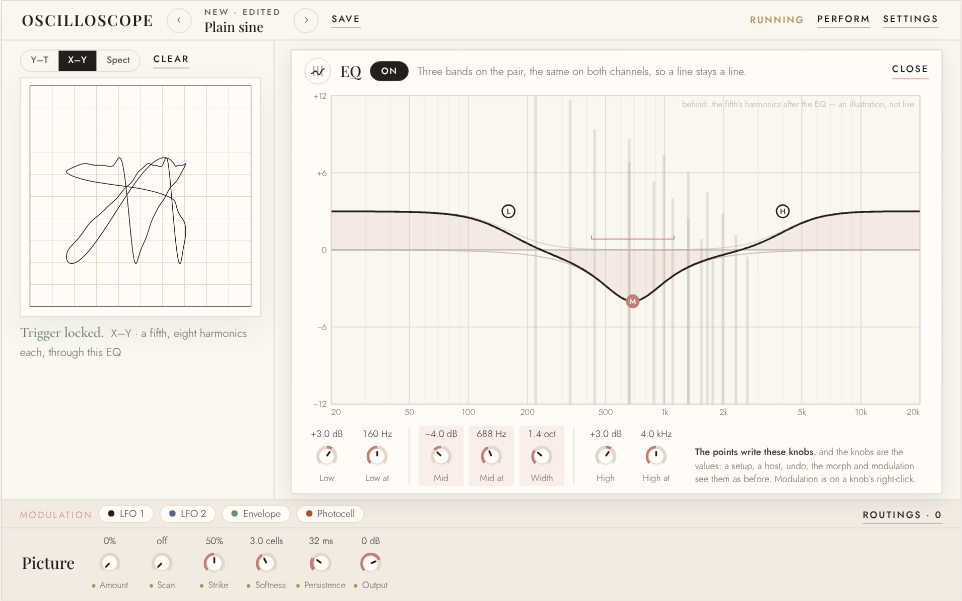
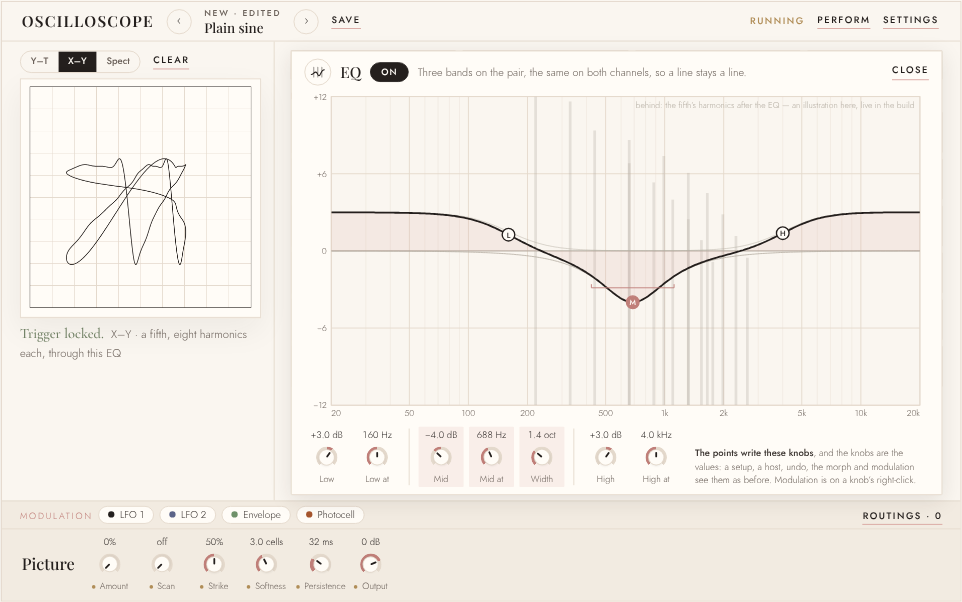
Put the EQ's points on its curve, and settle the mockup on the editor over the tabs
The owner's verdict on the EQ mockup (17 Nov). The points did not line
up with the line: each sat at its band's own full gain, which a shelf's
curve reaches only far past its corner, and a band overlapping another
put its point off the curve again. Each point now sits on the drawn
total curve, at its band's frequency and the height of the whole
response there, and the sum is drawn through each band's frequency so
the point is on a vertex rather than between two. Dragging still moves
the band's own gain from where it was, and the readout and the menu
still give the band's own gain. The line's small curve does the same.

checks/points_on_curve.py holds it: six settings, both windows, the
editor and the line, each point within half a pixel of the drawn path
at its x (0.20 px at worst, the path's own rounding). Its null is the
old placement, which misses on every shelf; the first null setting, a
shelf with an 8 dB mid under its corner, happened to put the old
placement on the curve, so the mid there is 4 dB. With the old
placement put back the check fails. The curve's check against the core
is beside it now too, as checks/curve_against_core.py.

The page defaults to A, over the tabs, and B's switch goes: B stays a
paragraph in the one alternative, marked not chosen. The spectrum is an
illustration here and live in the build, from the Spect view's
2048-point FFT, with its cost written down. The line's curve showing
[…]

diff --git a/web/docs/mockups/eq/index.html b/web/docs/mockups/eq/index.html
@@ -324,7 +324,7 @@ kbd { font-family: var(--mono); font-size: 0.8em; border: 1px solid var(--pg-lin
 </head>
 <body>
 <div class="page">
-  <p class="eyebrow">Mockup · Space &amp; Memory · 17 Nov</p>
+  <p class="eyebrow">Mockup · Space &amp; Memory · 17 Nov · the owner chose A</p>
   <h1>The EQ, drawn</h1>
   <p class="lede">Its response as the face of it: a small curve on the rack's line where the three gain knobs were, and a large one to drag, opened over the tabs with the screen still in view.</p>
   <p class="small">Everything here is live. The curve is worked out with the core's own formulas (the Audio EQ Cookbook, shelves at slope one, the mid's Q from its width by the analog relation, at 48 kHz), so what you drag is what the instrument would play. The screen's figure is a fifth, A3 against E4, through this EQ. Nothing in <code>scope.html</code> or the core has changed.</p>
@@ -334,11 +334,6 @@ kbd { font-family: var(--mono); font-size: 0.8em; border: 1px solid var(--pg-lin
       <div class="pg-switch" id="pgSize">
         <button type="button" data-v="big" aria-pressed="true">1400 × 900</button>
         <button type="button" data-v="small" aria-pressed="false">960 × 600 at 90%</button>
-      </div></div>
-    <div class="grp"><span class="lbl">Editor</span>
-      <div class="pg-switch" id="pgLayout">
-        <button type="button" data-v="over" aria-pressed="true">A · over the tabs</button>
-        <button type="button" data-v="rack" aria-pressed="false">B · in the rack</button>
       </div></div>
     <div class="grp"><span class="lbl">Hands</span>
       <div class="pg-switch" id="pgHands">
@@ -432,25 +427,28 @@ kbd { font-family: var(--mono); font-size: 0.8em; border: 1px solid var(--pg-lin
     <dt>On the line</dt>
     <dd>The curve, 150 by 34, in place of the three gain knobs, with the three points as dots. It is a button: pressing it opens the editor. It stays on the folded line too (96 by 22), because it is the line's reading rather than a control, and a folded EQ that showed nothing would say nothing. The words beside it (<i>low +3.0 dB at 160 Hz · …</i>) stay; they are what a screen reader and a narrow window keep.</dd>
     <dt>The editor</dt>
-    <dd>Over the tabs, where the modulation editor opens, so the screen stays in view while you listen and watch. A log-frequency grid from 20 Hz to 20 kHz, ±12 dB, the sum of the bands in charcoal and each band's own in faint grey under it. The chosen point is in the accent, the others charcoal on paper; each sits at its corner frequency and its full gain, so a shelf's curve passes half-way through it, as the info line says.</dd>
+    <dd>Over the tabs, where the modulation editor opens, so the screen stays in view while you listen and watch. A log-frequency grid from 20 Hz to 20 kHz, ±12 dB, the sum of the bands in charcoal and each band's own in faint grey under it. The chosen point is in the accent, the others charcoal on paper; each sits on the drawn curve, at its band's frequency (a shelf's corner, the mid's centre) and at the height of the whole response there, so a shelf's point shows where the curve is at its corner - half the shelf's gain, plus whatever another band adds there. Dragging up and down still moves that band's own gain, from where it was, and the readout and the menu give the band's own gain, not the curve's height.</dd>
     <dt>The knobs stay</dt>
     <dd>All seven, under the curve, as the values: a setup, a host knob, undo, the morph and modulation read and write them exactly as now, and the points write the knobs. The knobs a point moves are washed while it is chosen. Modulation stays on the knobs (their right-click), not on the points, because a point is two or three controls at once.</dd>
+    <dt>Both hands on the line</dt>
+    <dd>When the hands differ, the small curve on the line draws both: the edited hand's solid, the other's dashed in its ink, as the large one does. One glance at the rack says the hands' EQs are not the same.</dd>
     <dt>The hands</dt>
     <dd>With two hands the link sits in the editor's head, after the name: <i>Same in both</i>, or the edited hand's own in its ink. Unlinked, the other hand's curve is drawn faint and dashed in its ink behind, so the two can be compared without switching. The rack's line keeps its short pill (<i>Both</i>, <i>Lower</i>, <i>Upper</i>) before the arrow, as now.</dd>
     <dt>The spectrum</dt>
-    <dd>Optional, faint, behind the curve, on a scale of its own (60 dB from the top of the plot to its foot). Here it is <b>an illustration, not live</b>: the fifth on the screen, eight harmonics a note falling 4.5 dB per harmonic, as the EQ leaves it. Live it would be the sound's own, as the Spect view reads it.</dd>
+    <dd>Optional, faint, behind the curve, on a scale of its own (60 dB from the top of the plot to its foot). In this mockup it is <b>an illustration, not live</b>: the fifth on the screen, eight harmonics a note falling 4.5 dB per harmonic, as the EQ leaves it. <b>In the build it is live</b>, from the analysis the Spect view already uses (the page's own 2048-point FFT of the frame the screen reads, which is after the EQ). Its cost: that FFT runs every frame while the editor is open, whatever the screen is showing, where today it runs only on Spect - small in time (well under a millisecond a frame), but a second consumer of the frame to keep in step; it wants smoothing over a few frames, or the bars flicker under the points; and at 48 kHz its bins are 23 Hz apart, so below about 100 Hz, where the low shelf turns, it is coarse - a bin a third of an octave or wider.</dd>
   </dl>
 
   <h2>The one alternative</h2>
   <dl class="verdict">
     <dt>A · Over the tabs</dt>
-    <dd>Recommended. The largest curve the column allows - its plot 752 by 452 of the page's pixels at 1400 × 900, and 654 by 343 at 960 × 600 - and the same place and the same Close as the modulation editor, so it is one thing to learn. Its cost: while it is open the other modules and the tab cards are covered, so switching the delay on means closing it first.</dd>
+    <dd><b>Chosen</b> (the owner, 17 Nov), and what this page shows. The largest curve the column allows - its plot 752 by 452 of the page's pixels at 1400 × 900, and 654 by 343 at 960 × 600 - and the same place and the same Close as the modulation editor, so it is one thing to learn. Its cost: while it is open the other modules and the tab cards are covered, so switching the delay on means closing it first.</dd>
     <dt>B · In the rack</dt>
-    <dd>The EQ's arrow opens the curve in the module's rest, the others folding to their lines above and below it. The rack and its order stay in view and every switch is still a press away. Its cost: the curve gets what height is left after five folded lines - a plot 185 px tall at 1400 × 900 and 99 at 960 × 600 (under half A's height, and under a third), which is little room for ±12 dB over ten octaves - and the tab's fit becomes the EQ's problem: any line added to the rack comes out of the curve.</dd>
+    <dd><b>Not chosen.</b> The EQ's arrow would have opened the curve in the module's rest, the others folding to their lines above and below it (it was drawn and measured in the first version of this page). The rack and its order stay in view and every switch is still a press away. Its cost: the curve gets what height is left after five folded lines - a plot 185 px tall at 1400 × 900 and 99 at 960 × 600 (under half A's height, and under a third), which is little room for ±12 dB over ten octaves - and the tab's fit becomes the EQ's problem: any line added to the rack comes out of the curve.</dd>
   </dl>
 
   <h2 id="checked">How the curve was checked</h2>
   <p>The page's response (the function <code>eqResponseDb</code> in this page) was compared with the core's: a small C++ program that includes <code>core/include/scope/plane.h</code>, takes each band's coefficients from <code>PlaneEngine::eqBand</code> (the core's own, public for its tests) and evaluates the cascade at the same frequencies. Six settings, 241 frequencies each from 20 Hz to 20 kHz, at 48 kHz and 44.1 kHz; the null is the page given the mid's width as Q unconverted, which must miss. The core's numbers were printed to nine decimals, so a difference of 5 × 10<sup>−10</sup> dB is that printing's rounding: the two agree to the last digit printed, far inside the 0.01 dB asked. The null misses by 0.67 dB or more wherever the mid is in, so the check can fail. (A setting with the mid at nought has no width to get wrong, so its null is a dash.)</p>
+  <p>Each point sits on the drawn curve, and that is checked too: for six settings (among them a shelf overlapping the mid, and a narrow mid on a high shelf), at both windows, in the editor and on the line's small curve, the point's centre is no more than 0.20 px from the drawn path's height at the point's x - the path's own rounding - against a limit of half a pixel. The null is the first version's placement, at the band's own full gain: it misses on every shelf, by 1.4 px to 245 px, and with it put back the check fails. Both checks are beside the page, in <code>checks/</code>.</p>
   <div class="table-wrap"><table class="check-table" id="checkTable">
     <thead><tr><th>Setting</th><th>Rate</th><th>Page against core</th><th>Null: width as Q</th></tr></thead>
     <tbody>
@@ -471,9 +469,7 @@ kbd { font-family: var(--mono); font-size: 0.8em; border: 1px solid var(--pg-lin
 
   <h2>Not decided here</h2>
   <ul>
-    <li>Whether the curve on the line should draw each hand's when the hands differ. Here it draws the edited hand's only.</li>
     <li>Whether a point's drag is a step in undo on release (it would be, as a knob's drag is: the knobs are what undo records).</li>
-    <li>The live spectrum's cost: the Spect view already has an analyser, but on the editor it would run with the Bench open, at the editor's size.</li>
   </ul>
 </div>
 
@@ -680,6 +676,11 @@ function el(tag, attrs, parent) {
   return n;
 }
 const FREQS = Array.from({ length: 360 }, (_, i) => FMIN * Math.pow(FMAX / FMIN, i / 359));
+// The sum's frequencies with each band's own put in, so a point lies on a vertex of the drawn curve rather than between two.
+const withBands = (freqs, h) => freqs.concat([0, 1, 2].map((k) => eqHz(k, h.pos[k]))).sort((a, b) => a - b);
+// Where a point sits: at its band's frequency, at the height of the whole response there (17 Nov, the owner's call:
+// on the line drawn, not at the band's own gain, which a shelf's curve only reaches far past its corner).
+const pointDb = (h, k) => eqResponseDb(eqOf(h), [eqHz(k, h.pos[k])])[0];
 function curvePath(g, e, freqs, clip) {
   const db = eqResponseDb(e, freqs);
   return freqs.map((f, i) => (i ? "L" : "M") + g.x(f).toFixed(1) + " " + g.y(clip ? clamp(db[i], -DBR - 2, DBR + 2) : db[i]).toFixed(1)).join("");
@@ -724,7 +725,7 @@ function drawPlot(svg) {
       el("line", { x1: g.x(p.f), x2: g.x(p.f), y1: g.T + g.H, y2: Math.max(g.T, top), stroke: "var(--unresolved)", "stroke-width": 3, opacity: 0.32 }, inner);
     });
     if (g.H > 110) el("text", { x: g.L + g.W - 6, y: g.T + 13, "text-anchor": "end", "font-size": compact ? 9.5 : 10.5, fill: "var(--unresolved)", "font-family": "var(--sans)" }, svg)
-      .textContent = "behind: the fifth’s harmonics after the EQ — an illustration, not live";
+      .textContent = "behind: the fifth’s harmonics after the EQ — an illustration here, live in the build";
   }
   // Each band's own, faint; the other hand's, dashed in its ink; then the sum.
   for (let k = 0; k < 3; k++) if (h.g[k] !== 0)
@@ -732,17 +733,17 @@ function drawPlot(svg) {
   if (S.hands === 2 && !S.linked) {
     el("path", { d: curvePath(g, eqOf(other()), FREQS, true), fill: "none", stroke: S.editing ? "var(--hand-a)" : "var(--hand-b)", "stroke-width": 1.5, "stroke-dasharray": "5 4", opacity: 0.7 }, inner);
   }
-  const sumPath = curvePath(g, e, FREQS, true);
+  const sumPath = curvePath(g, e, withBands(FREQS, h), true);
   el("path", { d: sumPath + "L" + (g.L + g.W) + " " + g.y(0) + "L" + g.L + " " + g.y(0) + "Z", fill: "var(--wash)", stroke: "none" }, inner);
-  el("path", { d: sumPath, fill: "none", stroke: S.hands === 2 && !S.linked ? (S.editing ? "var(--hand-b)" : "var(--hand-a)") : "var(--charcoal)", "stroke-width": 2 }, inner);
+  el("path", { id: "sumPath", d: sumPath, fill: "none", stroke: S.hands === 2 && !S.linked ? (S.editing ? "var(--hand-b)" : "var(--hand-a)") : "var(--charcoal)", "stroke-width": 2 }, inner);
   // The mid's width, as a bracket under its point while it is chosen.
   if (S.sel === 1) {
-    const lo = e.midHz / Math.pow(2, e.width / 2), hi = e.midHz * Math.pow(2, e.width / 2), yb = g.y(0) + (h.g[1] >= 0 ? 12 : -12);
+    const lo = e.midHz / Math.pow(2, e.width / 2), hi = e.midHz * Math.pow(2, e.width / 2), yb = g.y(clamp(pointDb(h, 1), -DBR, DBR)) + (h.g[1] >= 0 ? 16 : -16);
     el("path", { d: "M" + g.x(lo) + " " + (yb - 4) + "V" + yb + "H" + g.x(hi) + "V" + (yb - 4), fill: "none", stroke: "var(--blush-deep)", "stroke-width": 1 }, inner);
   }
   // The points, each at its corner and its full gain.
   for (let k = 0; k < 3; k++) {
-    const hz = eqHz(k, h.pos[k]), db = h.g[k] / 10, chosen = k === S.sel;
+    const hz = eqHz(k, h.pos[k]), db = clamp(pointDb(h, k), -DBR - 2, DBR + 2), chosen = k === S.sel;
     const pt = el("g", { class: "pt", tabindex: 0, role: "button", "data-band": k, "aria-label": pointLabel(k) }, svg);
     el("circle", { cx: g.x(hz), cy: g.y(db), r: 16, fill: "transparent" }, pt);
     el("circle", { class: "ring", cx: g.x(hz), cy: g.y(db), r: compact ? 7 : 8, fill: chosen ? "var(--blush-deep)" : "var(--paper)", stroke: chosen ? "var(--blush-deep)" : "var(--charcoal)", "stroke-width": 1.5 }, pt);
@@ -768,9 +769,9 @@ function paintThumb() {
   el("line", { x1: 2, x2: w - 2, y1: ht / 2, y2: ht / 2, stroke: "var(--line)" }, svg);
   if (S.hands === 2 && !S.linked)
     el("path", { d: curvePath(g, eqOf(other()), TFREQS, false), fill: "none", stroke: S.editing ? "var(--hand-a)" : "var(--hand-b)", "stroke-width": 1, "stroke-dasharray": "3 2", opacity: 0.7 }, svg);
-  el("path", { d: curvePath(g, eqOf(h), TFREQS, false), fill: "none", stroke: on ? "var(--charcoal)" : "var(--unresolved)", "stroke-width": 1.5 }, svg);
+  el("path", { d: curvePath(g, eqOf(h), withBands(TFREQS, h), false), fill: "none", stroke: on ? "var(--charcoal)" : "var(--unresolved)", "stroke-width": 1.5 }, svg);
   if (on) for (let k = 0; k < 3; k++)
-    el("circle", { cx: g.x(eqHz(k, h.pos[k])), cy: g.y(h.g[k] / 10), r: 2.2, fill: k === S.sel && S.editorOpen ? "var(--blush-deep)" : "var(--charcoal)" }, svg);
+    el("circle", { cx: g.x(eqHz(k, h.pos[k])), cy: g.y(pointDb(h, k)), r: 2.2, fill: k === S.sel && S.editorOpen ? "var(--blush-deep)" : "var(--charcoal)" }, svg);
 }
 
 /* ===== the editor's body: plot and knobs ===== */
@@ -968,7 +969,7 @@ function showReadout(k) {
   const h = cur();
   r.textContent = BAND[k] + "  " + gainReading(h.g[k] / 10) + " at " + hzReading(eqHz(k, h.pos[k])) + (k === 1 ? " · " + (h.w / 10).toFixed(1) + " oct" : "");
   r.hidden = false; clearTimeout(readoutTimer);
-  const x = geo.x(eqHz(k, h.pos[k])), y = geo.y(h.g[k] / 10);
+  const x = geo.x(eqHz(k, h.pos[k])), y = geo.y(clamp(pointDb(h, k), -DBR, DBR));
   r.style.left = clamp(x - 70, geo.L, geo.w - 210) + "px";
   r.style.top = (y > geo.h / 2 ? y - 34 : y + 16) + "px";
 }
@@ -1128,7 +1129,6 @@ function pgSwitch(id, key, conv) {
   }));
 }
 pgSwitch("pgSize", "size");
-pgSwitch("pgLayout", "layout");
 pgSwitch("pgHands", "hands", Number);
 document.getElementById("pgSpec").addEventListener("click", (ev) => { S.spectrum = !S.spectrum; ev.currentTarget.setAttribute("aria-pressed", S.spectrum); paint(); });
 document.getElementById("pgAll").addEventListener("click", (ev) => {
@@ -1138,7 +1138,8 @@ document.getElementById("pgAll").addEventListener("click", (ev) => {
 });
 document.querySelectorAll("#editSwitch button").forEach((b) => b.addEventListener("click", () => { S.editing = +b.dataset.h; render(); }));
 document.addEventListener("keydown", (ev) => {
-  if (ev.key === "Escape" && document.getElementById("ctx").hidden && S.editorOpen && S.layout === "over") { S.editorOpen = false; render(); }
+  // Esc closes the innermost thing open: the menu's own Esc is that menu's, not the editor's too.
+  if (ev.key === "Escape" && !ev.target.closest("#ctx") && document.getElementById("ctx").hidden && S.editorOpen && S.layout === "over") { S.editorOpen = false; render(); }
 });
 // The Picture section's knobs, for context: the six of it as the face has them.
 document.getElementById("picKnobs").innerHTML = [["0%", "Amount", 0], ["off", "Scan", 0], ["50%", "Strike", 0.5], ["3.0 cells", "Softness", 0.4], ["32 ms", "Persistence", 0.3], ["0 dB", "Output", 0.75]]

diff --git a/web/docs/mockups/eq/checks/points_on_curve.py b/web/docs/mockups/eq/checks/points_on_curve.py
@@ -1,0 +1,75 @@
+"""Every point of the EQ mockup sits on the drawn total curve (the owner, 17 Nov).
+
+For each setting, at both windows, in the large editor and on the line's small
+curve: the point's centre against the drawn path's height at the point's x,
+read from the path's own coordinates, within half a pixel. The null is the
+first version's placement, the band's own full gain, which must miss by more
+than that on a shelf - so the check can fail.
+
+    CHROME=/opt/pw-browsers/chromium python3 web/docs/mockups/eq/checks/points_on_curve.py
+"""
+import os, sys
+from playwright.sync_api import sync_playwright
+
+PAGE = "file://" + os.path.join(os.path.dirname(os.path.dirname(os.path.abspath(__file__))), "index.html")
+CHROME = os.environ.get("CHROME", "/opt/pw-browsers/chromium")
+# gains in tenths of a dB, places 0-100, width in tenths of an octave, as the knobs hold them
+SETTINGS = [
+    ("the switch's start", [30, 0, 30], [50, 50, 50], 10),
+    ("the page's opening", [30, -40, 30], [50, 41, 50], 14),
+    # A shelf over the mid. With the mid at +8 dB it filled in the shelf's missing half at its corner,
+    # so the old placement happened to sit on the curve there and the null could not see it: +4 here.
+    ("a shelf over the mid", [120, 40, 0], [100, 30, 50], 20),
+    ("a narrow mid on a high shelf", [-60, 100, 90], [20, 100, 40], 2),
+    ("a wide cut between two boosts", [90, -110, 90], [70, 50, 30], 40),
+    ("the mid alone", [0, 65, 0], [50, 50, 50], 10),
+]
+MEASURE = """(which) => {
+  const svg = which === 'plot' ? document.getElementById('plot') : document.getElementById('thumbSvg');
+  const path = which === 'plot' ? document.getElementById('sumPath') : svg.querySelectorAll('path')[svg.querySelectorAll('path').length - 1];
+  const pts = path.getAttribute('d').match(/[ML][^ML]+/g).map((t) => t.slice(1).trim().split(/\\s+/).map(Number));
+  const yAt = (x) => { for (let i = 1; i < pts.length; i++) if (pts[i][0] >= x) {
+      const [x0, y0] = pts[i - 1], [x1, y1] = pts[i]; return x1 === x0 ? y1 : y0 + (y1 - y0) * (x - x0) / (x1 - x0); }
+    return pts[pts.length - 1][1]; };
+  const h = cur(), out = [];
+  const dots = which === 'plot' ? Array.from(svg.querySelectorAll('.pt .ring')) : Array.from(svg.querySelectorAll('circle'));
+  dots.forEach((c, k) => {
+    if (which === 'thumb' && h.g[k] === 0 && !h.g.some((v) => v)) return;
+    const cx = +c.getAttribute('cx'), cy = +c.getAttribute('cy');
+    // The first version's placement, the band's own gain, on the same axis: the null.
+    const g = which === 'plot' ? geo : null;
+    let oldY;
+    if (which === 'plot') oldY = geo.y(h.g[k] / 10);
+    else { const ht = svg.clientHeight || 34; oldY = ht / 2 - (h.g[k] / 10) / 13 * (ht / 2 - 3); }
+    out.push({ band: k, gain: h.g[k], miss: Math.abs(cy - yAt(cx)), oldMiss: Math.abs(oldY - yAt(cx)) });
+  });
+  return out;
+}"""
+
+fails = []
+with sync_playwright() as pw:
+    b = pw.chromium.launch(executable_path=CHROME)
+    p = b.new_page(viewport={"width": 1500, "height": 1100})
+    errs = []
+    p.on("pageerror", lambda e: errs.append(str(e)))
+    p.goto(PAGE); p.wait_for_timeout(500)
+    worst, nullShelf = 0.0, []
+    for size in ["big", "small"]:
+        p.click(f'#pgSize button[data-v="{size}"]'); p.wait_for_timeout(100)
+        for name, g, pos, w in SETTINGS:
+            p.evaluate("([g, pos, w]) => { S.hand.forEach((h) => { h.g = g.slice(); h.pos = pos.slice(); h.w = w; }); paint(); }", [g, pos, w])
+            for which in ["plot", "thumb"]:
+                for r in p.evaluate(MEASURE, which):
+                    worst = max(worst, r["miss"])
+                    if r["band"] != 1 and r["gain"] != 0: nullShelf.append((r["oldMiss"], f"{size} {name} {which} band {r['band']}"))
+                    if r["miss"] > 0.5:
+                        fails.append(f"{size} {name} {which} band {r['band']}: {r['miss']:.3f} px off the curve")
+    print(f"worst distance of a point from the drawn curve: {worst:.4f} px (limit 0.5)")
+    lo, hi = min(nullShelf), max(nullShelf)
+    print(f"null, the band's own gain on a shelf: smallest miss {lo[0]:.2f} px ({lo[1]}), largest {hi[0]:.2f} px")
+    if lo[0] <= 0.5: fails.append("null: the old placement does not miss on every shelf: " + lo[1])
+    if errs: fails.append("page errors: " + "; ".join(errs))
+    b.close()
+for f in fails: print("FAIL", f)
+print("PASS" if not fails else "FAILED")
+sys.exit(1 if fails else 0)

diff --git a/web/docs/mockups/eq/checks/curve_against_core.py b/web/docs/mockups/eq/checks/curve_against_core.py
@@ -1,0 +1,59 @@
+"""The mockup's EQ curve against the core's own (core/include/scope/plane.h, Plane::eqBand).
+
+Builds eq_core_response.cpp, then compares the page's eqResponseDb with it over six
+settings, 241 frequencies each, at 48 and 44.1 kHz, to 0.01 dB. The null hands the
+mid's width to the page as Q unconverted, which must miss where the mid is in.
+
+    CHROME=/opt/pw-browsers/chromium python3 web/docs/mockups/eq/checks/curve_against_core.py
+"""
+import os, subprocess, sys, tempfile
+from playwright.sync_api import sync_playwright
+HERE = os.path.dirname(os.path.abspath(__file__))
+ROOT = os.path.abspath(os.path.join(HERE, "..", "..", "..", "..", ".."))
+PAGE = "file://" + os.path.join(os.path.dirname(HERE), "index.html")
+CHROME = os.environ.get("CHROME", "/opt/pw-browsers/chromium")
+BIN = os.path.join(tempfile.mkdtemp(), "eqcore")
+subprocess.run(["g++", "-std=c++17", "-O1", "-I" + os.path.join(ROOT, "core", "include"),
+                os.path.join(HERE, "eq_core_response.cpp"), "-o", BIN], check=True)
+# name, gains (dB), positions (0-100), width (oct)
+CASES = [
+  ("The switch's start: low and high +3.0 dB, at 160 Hz and 4.0 kHz", [3, 0, 3], [50, 50, 50], 1.0),
+  ("The mockup's opening: low +3.0, mid -4.0 dB at 688 Hz 1.4 oct, high +3.0", [3, -4, 3], [50, 41, 50], 1.4),
+  ("Every band at an end: low +12 at 40 Hz, mid +12 at 8 kHz 0.2 oct, high -12 at 16 kHz", [12, 12, -12], [0, 100, 100], 0.2),
+  ("The other ends: low -12 at 640 Hz, mid -12 at 125 Hz 4.0 oct, high +12 at 1 kHz", [-12, -12, 12], [100, 0, 0], 4.0),
+  ("The mid alone, +6.5 dB at 1.0 kHz, 1.0 oct", [0, 6.5, 0], [50, 50, 50], 1.0),
+  ("Off: every gain at nought", [0, 0, 0], [50, 50, 50], 1.0),
+]
+RATES = [48000, 44100]
+with sync_playwright() as pw:
+    b = pw.chromium.launch(executable_path=CHROME)
+    p = b.new_page(viewport={"width": 1300, "height": 900})
+    errs = []
+    p.on("console", lambda m: errs.append(m.type + ": " + m.text) if m.type in ("error", "warning") else None)
+    p.on("pageerror", lambda e: errs.append("pageerror: " + str(e)))
+    p.goto(PAGE); p.wait_for_timeout(500)
+    freqs = [20 * 1000 ** (i / 240) for i in range(241)]
+    rows, lines, settings = [], [], []
+    for name, g, pos, w in CASES:
+        hz = p.evaluate("(pos) => pos.map((v, k) => eqHz(k, v))", pos)
+        e = dict(low=g[0], lowHz=hz[0], mid=g[1], midHz=hz[1], width=w, high=g[2], highHz=hz[2])
+        for r in RATES:
+            settings.append((name, r, e))
+            lines.append(f"{r} {g[0]} {hz[0]!r} {g[1]} {hz[1]!r} {w} {g[2]} {hz[2]!r}")
+    out = subprocess.run([BIN], input="\n".join(lines) + "\n", capture_output=True, text=True, check=True).stdout.split("\n")
+    worst = 0; worstNull = 1e9
+    for (name, r, e), line in zip(settings, out):
+        core = [float(v) for v in line.split()]
+        page = p.evaluate("([e, f, r]) => eqResponseDb(e, f, r)", [e, freqs, r])
+        null = p.evaluate("([e, f, r]) => eqResponseDb(e, f, r, true)", [e, freqs, r])
+        d = max(abs(a - c) for a, c in zip(page, core))
+        dn = max(abs(a - c) for a, c in zip(null, core))
+        worst = max(worst, d)
+        if e["mid"] != 0: worstNull = min(worstNull, dn)
+        rows.append((name, r, d, dn if e["mid"] != 0 else None, max(core), min(core)))
+        print(f"{name[:60]:60s} {r}  page-core {d:.2e} dB   null {dn:.3f} dB   range {min(core):.2f}..{max(core):.2f}")
+    print("worst", worst, "dB; null's smallest miss", worstNull, "dB; page errors", errs)
+    b.close()
+ok = worst < 0.01 and worstNull > 0.01 and not errs
+print("PASS" if ok else "FAILED")
+sys.exit(0 if ok else 1)

diff --git a/web/docs/mockups/eq/checks/eq_core_response.cpp b/web/docs/mockups/eq/checks/eq_core_response.cpp
@@ -1,0 +1,23 @@
+// The core's EQ response, for curve_against_core.py: built against core/include, it reads settings
+// from stdin and prints the cascade in dB at 241 frequencies, 20 Hz to 20 kHz, from Plane::eqBand.
+// Reads settings from stdin: rate low lowHz mid midHz width high highHz; prints dB at 241 log-spaced freqs 20..20k.
+#include "scope/plane.h"
+#include <complex>
+#include <cstdio>
+int main() {
+  double rate, g[3], f[3], w;
+  while (std::scanf("%lf %lf %lf %lf %lf %lf %lf %lf", &rate, &g[0], &f[0], &g[1], &f[1], &w, &g[2], &f[2]) == 8) {
+    for (int i = 0; i < 241; i++) {
+      double hz = 20 * std::pow(1000.0, i / 240.0);
+      std::complex<double> H(1, 0), z1 = std::polar(1.0, -2 * M_PI * hz / rate), z2 = z1 * z1;
+      for (int k = 0; k < 3; k++) {
+        double gk = std::fmax(-24.0, std::fmin(24.0, g[k]));
+        if (gk == 0) continue;
+        auto c = scope::Plane::eqBand(k, gk, std::fmax(10.0, f[k]), w, rate);
+        H *= (c[0] + c[1] * z1 + c[2] * z2) / (1.0 + c[3] * z1 + c[4] * z2);
+      }
+      std::printf("%s%.9f", i ? " " : "", 10 * std::log10(std::norm(H)));
+    }
+    std::printf("\n");
+  }
+}
